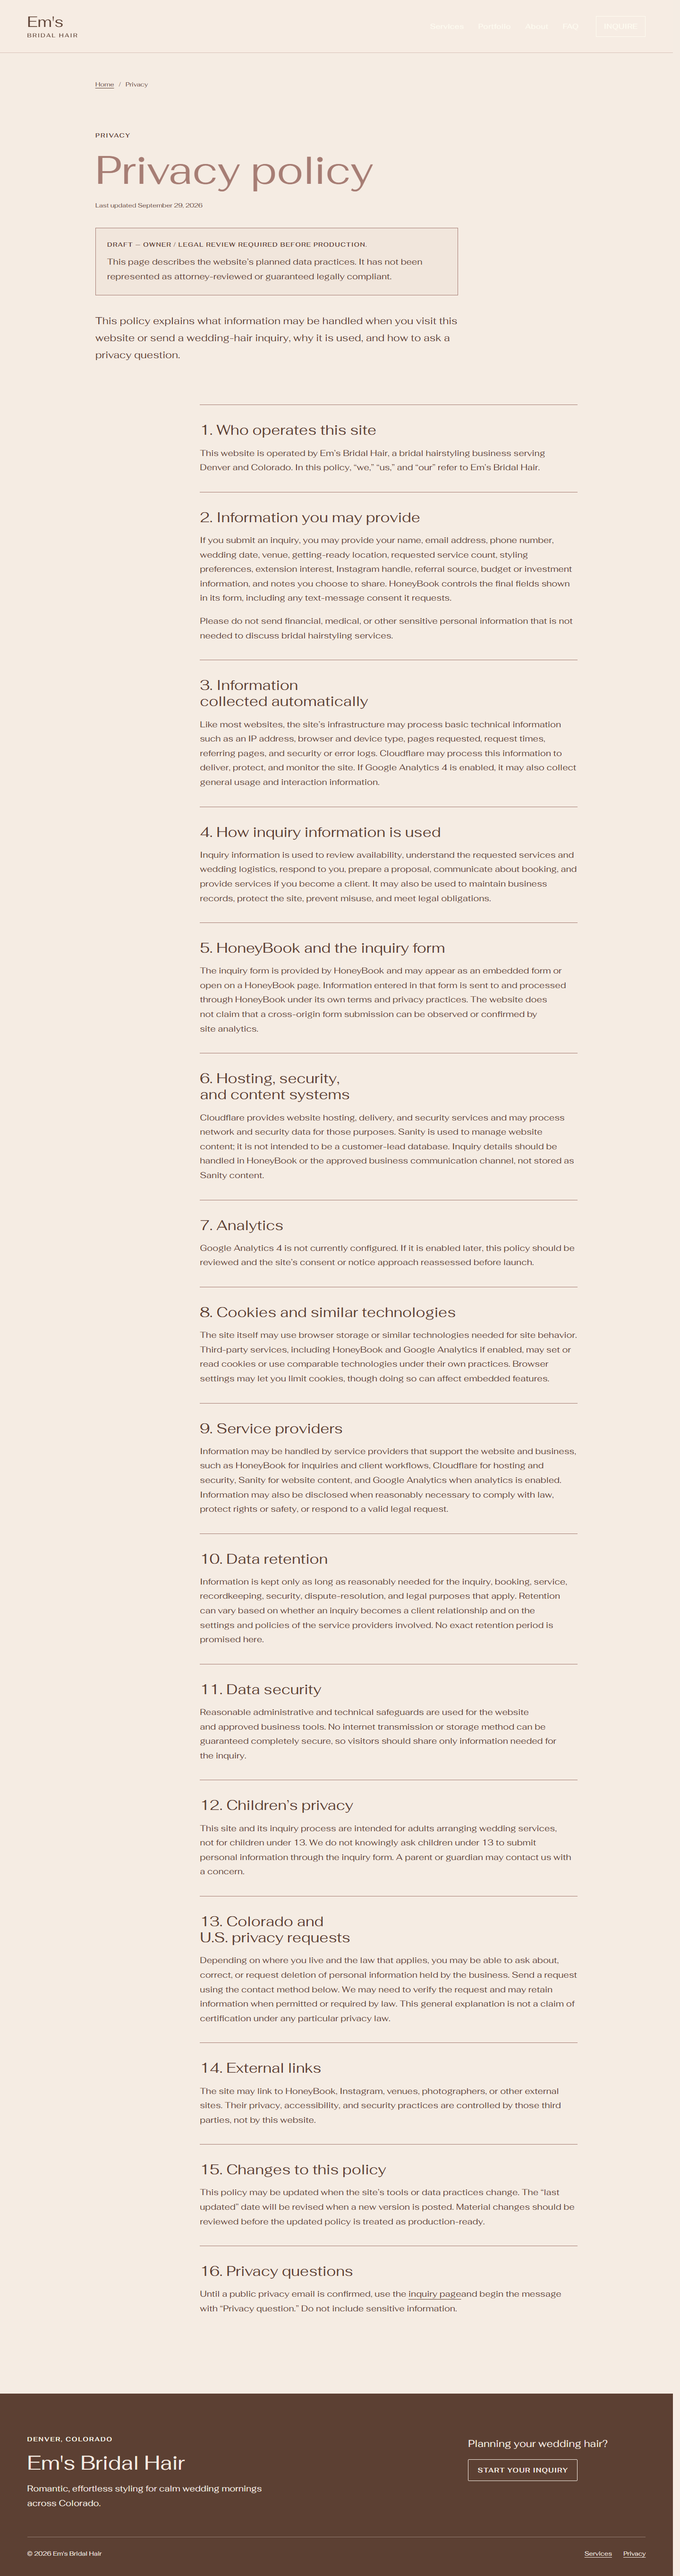
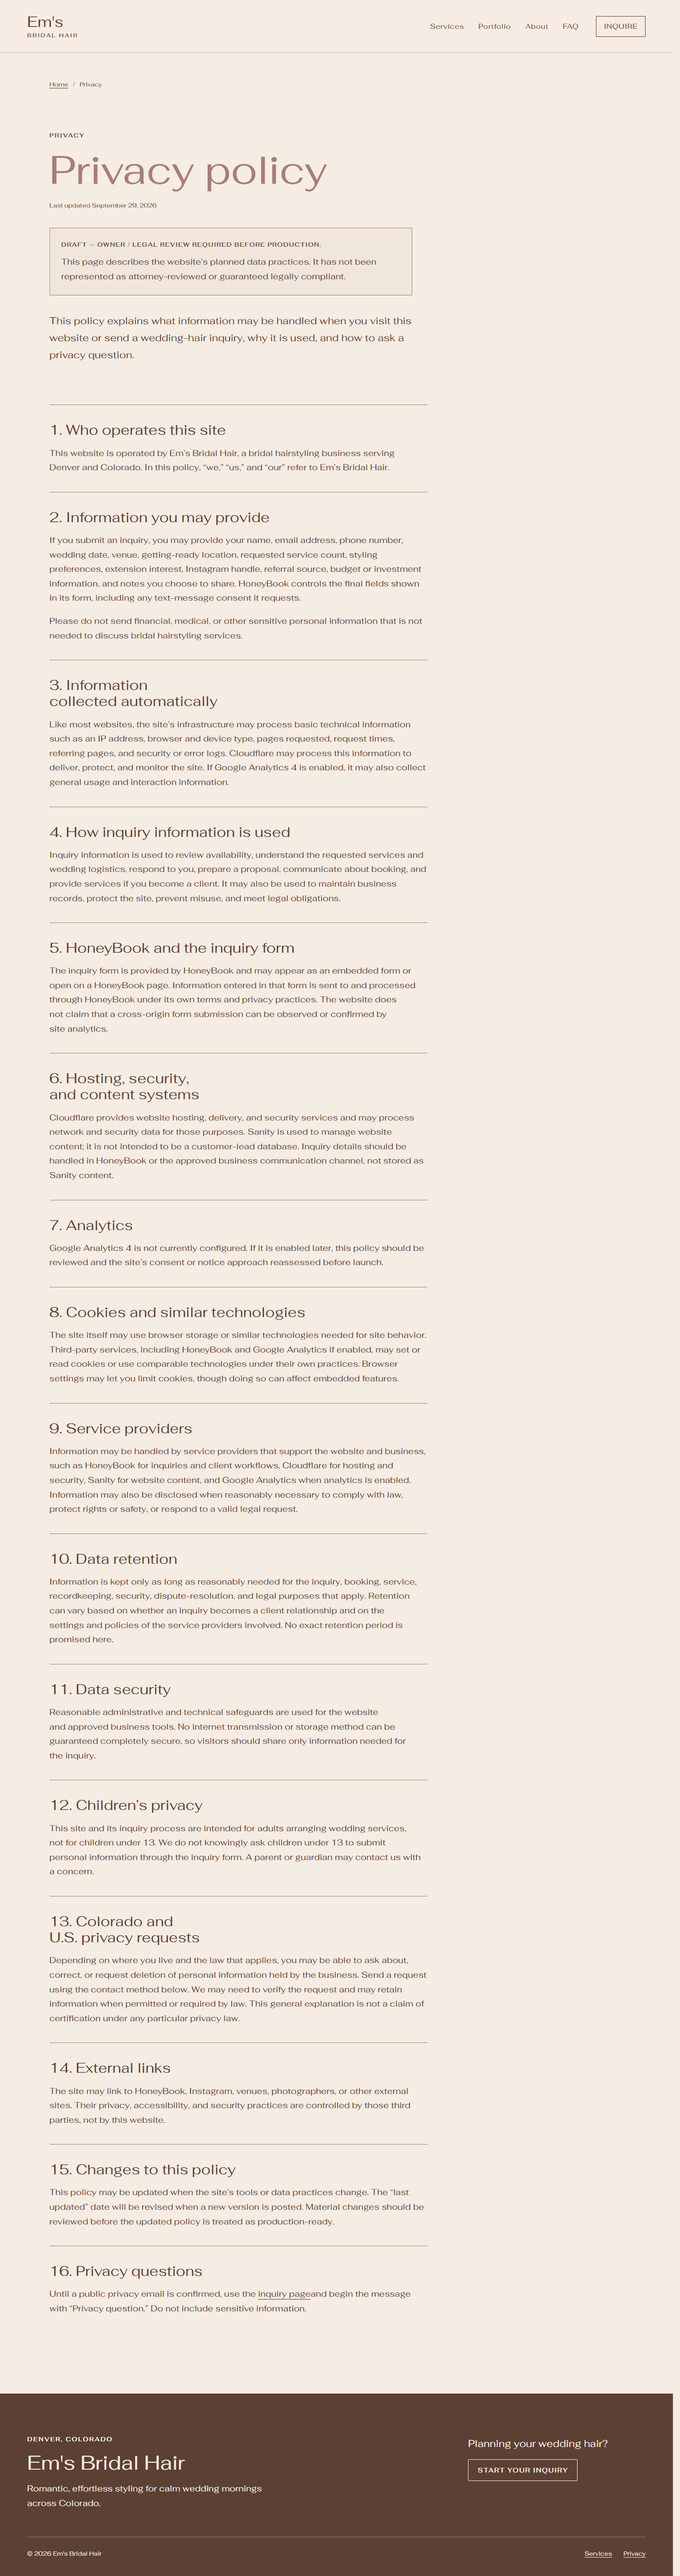
Pushing changes

diff --git a/tests/pages.spec.ts b/tests/pages.spec.ts
@@ -55,9 +55,10 @@ for (const route of routes) {
       await page.setViewportSize({ width: 390, height: 844 });
       await page.goto(route);
 
-      const results = await new AxeBuilder({ page })
-        .withTags(['wcag2a', 'wcag2aa', 'wcag21aa', 'wcag22aa'])
-        .analyze();
+      const axe = new AxeBuilder({ page }).withTags(['wcag2a', 'wcag2aa', 'wcag21aa', 'wcag22aa']);
+      if (route === '/inquire/') axe.exclude('iframe[title="Wedding hair inquiry form"]');
+
+      const results = await axe.analyze();
       const highImpact = results.violations.filter(
         (violation) => violation.impact === 'serious' || violation.impact === 'critical',
       );
@@ -157,6 +158,58 @@ test('privacy route is draft-gated and linked from the footer', async ({ page })
   ).toHaveAttribute('href', '/privacy/');
 });
 
+test('privacy heading and numbered sections share one left edge', async ({ page }) => {
+  for (const viewport of [
+    { width: 390, height: 844 },
+    { width: 1440, height: 900 },
+  ]) {
+    await page.setViewportSize(viewport);
+    await page.goto('/privacy/');
+
+    const headingX = await page
+      .locator('.privacy-heading')
+      .evaluate((element) => Math.round(element.getBoundingClientRect().x));
+    const bodyX = await page
+      .locator('.privacy-body')
+      .evaluate((element) => Math.round(element.getBoundingClientRect().x));
+
+    expect(bodyX).toBe(headingX);
+  }
+});
+
+test('photographic heroes retain warm localized contrast overlays', async ({ page }) => {
+  for (const route of ['/', '/services/']) {
+    await page.goto(route);
+    const overlay = page.locator(route === '/' ? '.hero-shade' : '.service-hero-shade');
+    await expect(overlay).toHaveCSS('position', 'absolute');
+    expect(await overlay.evaluate((element) => getComputedStyle(element).backgroundImage)).toMatch(
+      /linear-gradient/,
+    );
+  }
+});
+
+test('published HoneyBook form loads on inquire when configured', async ({ page }) => {
+  test.skip(!process.env.PUBLIC_HONEYBOOK_FORM_URL, 'HoneyBook public URL is not configured.');
+  test.setTimeout(90_000);
+
+  await page.setViewportSize({ width: 390, height: 844 });
+  await page.goto('/inquire/', { waitUntil: 'domcontentloaded' });
+  const iframe = page.locator('iframe[title="Wedding hair inquiry form"]');
+  await expect(iframe).toHaveAttribute('src', process.env.PUBLIC_HONEYBOOK_FORM_URL!, {
+    timeout: 60_000,
+  });
+  const formFrame = page.frameLocator('iframe[title="Wedding hair inquiry form"]');
+  await expect(formFrame.getByText('Full name', { exact: false })).toBeVisible({ timeout: 60_000 });
+  await expect(formFrame.getByText('Wedding date', { exact: false })).toBeVisible();
+  await expect(page.locator('[data-embed-shell]')).toHaveAttribute('aria-busy', 'false');
+
+  const frameWidth = await formFrame.locator('html').evaluate((element) => ({
+    clientWidth: element.clientWidth,
+    scrollWidth: element.scrollWidth,
+  }));
+  expect(frameWidth.scrollWidth).toBeLessThanOrEqual(frameWidth.clientWidth);
+});
+
 test('HoneyBook resources are isolated to the inquiry route', async ({ page }) => {
   const thirdPartyRequests: string[] = [];
   page.on('request', (request) => {
@@ -164,8 +217,9 @@ test('HoneyBook resources are isolated to the inquiry route', async ({ page }) =
     if (!['localhost', '127.0.0.1'].includes(url.hostname)) thirdPartyRequests.push(request.url());
   });
 
-  for (const route of ['/', '/services/', '/portfolio/', '/about/', '/faq/', '/journal/']) {
+  for (const route of routes.filter((item) => item !== '/inquire/')) {
     await page.goto(route);
+    await expect(page.locator('iframe[src*="honeybook"]')).toHaveCount(0);
   }
 
   expect(thirdPartyRequests.filter((url) => /honeybook/i.test(url))).toEqual([]);

diff --git a/src/env.d.ts b/src/env.d.ts
@@ -3,6 +3,9 @@
 /// <reference types="@cloudflare/workers-types" />
 
 interface Window {
+  _HB_?: {
+    pid?: string;
+  };
   dataLayer?: unknown[];
   gtag?: (...args: unknown[]) => void;
 }

diff --git a/INTEGRATIONS.md b/INTEGRATIONS.md
@@ -8,15 +8,23 @@ Sanity documents use one of three internal statuses: `OWNER_APPROVED`, `DEVELOPM
 
 ## HoneyBook
 
-Set these build variables after Emily confirms HoneyBook remains the CRM:
+The live Wix inquiry page embeds Emily's published HoneyBook contact form. Browser inspection found Wix's outer `filesusr.com` iframe, HoneyBook placement `632a07d8b2f1e1000827a1ea`, contact form `69686ba711cbe2002a8d7598`, and this public HoneyBook frame endpoint:
+
+```text
+https://public.honeybook.com/public_contact_form_app/07c4a1d/index.html
+```
+
+That endpoint renders the form only when HoneyBook's placement loader provides the public form configuration. Opening it directly or placing it in a bare iframe renders a blank page. The Astro component uses HoneyBook's published loader and placement on `/inquire/`; it does not copy Wix's wrapper. Set these build variables in the deployment environment:
 
 ```dotenv
 INQUIRY_PROVIDER=honeybook
-PUBLIC_HONEYBOOK_FORM_URL=https://approved-public-form-url.example
+PUBLIC_HONEYBOOK_FORM_URL=https://public.honeybook.com/public_contact_form_app/07c4a1d/index.html
 PUBLIC_CONTACT_EMAIL=optional-public-fallback@example.com
 ```
 
-The HoneyBook iframe exists only in the `/inquire/` page component and uses native lazy loading with reserved height. A direct form link and optional public email are provided if the embed fails. The iframe is cross-origin, so its internal labels, focus behavior, validation, error states, and successful-submit state cannot be audited or reliably detected by this site. The HoneyBook form owner must verify those details in HoneyBook.
+The URL is public, not a credential. The form is only loaded on `/inquire/`, with reserved height. The fallback currently opens the live Wix inquiry page; the Wix embed did not expose a verified standalone link for this contact form. Emily can replace that fallback by copying the direct link from the same contact form in HoneyBook (`Publish` → copy link). A separate lead-form link appeared in HoneyBook's public configuration, but returned a 404 and is not this Wix-embedded contact form.
+
+The iframe is cross-origin, so this site cannot change its internal labels, focus behavior, validation, error states, or detect a successful submission. Axe found serious or critical issues inside HoneyBook's own frame: invalid `autocomplete="nope"`, low-contrast helper text, and an unlabeled select input. The site-level axe test excludes the provider iframe, while the live-load test verifies its fields. Emily should review the provider form's accessibility in HoneyBook or with HoneyBook support.
 
 ## Privacy policy
 

diff --git a/README.md b/README.md
@@ -24,12 +24,12 @@ To enable Sanity, set these values in `.env`:
 PUBLIC_SITE_URL=https://example.com
 PUBLIC_SANITY_PROJECT_ID=your-project-id
 PUBLIC_SANITY_DATASET=production
-PUBLIC_HONEYBOOK_FORM_URL=
+PUBLIC_HONEYBOOK_FORM_URL=https://public.honeybook.com/public_contact_form_app/07c4a1d/index.html
 PUBLIC_CONTACT_EMAIL=
 PUBLIC_GA_MEASUREMENT_ID=
 PUBLIC_SHOW_JOURNAL=false
 CONTENT_MODE=development
-INQUIRY_PROVIDER=unconfirmed
+INQUIRY_PROVIDER=honeybook
 PRIVACY_POLICY_STATUS=DRAFT
 SANITY_STUDIO_PROJECT_ID=your-project-id
 SANITY_STUDIO_DATASET=production
